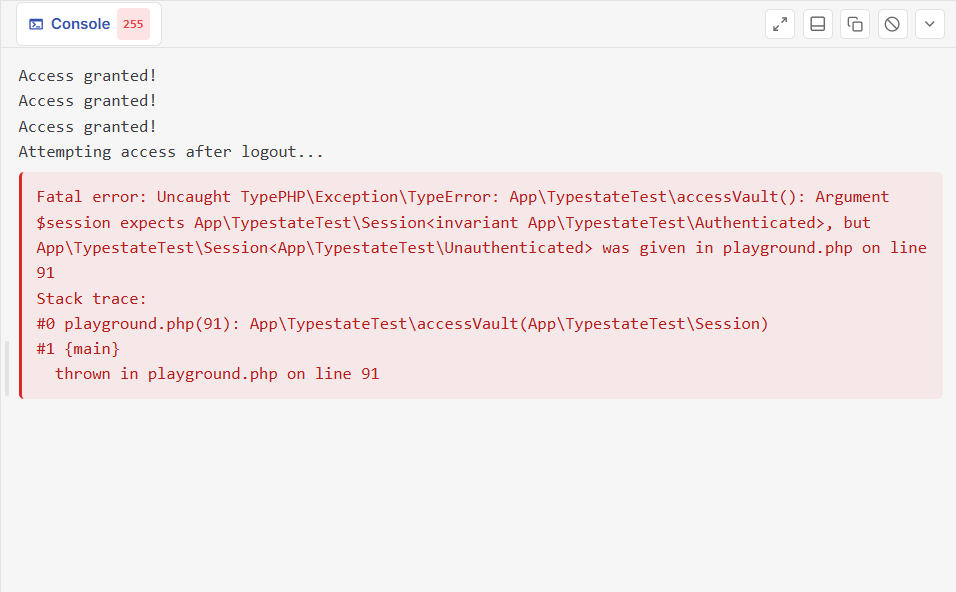
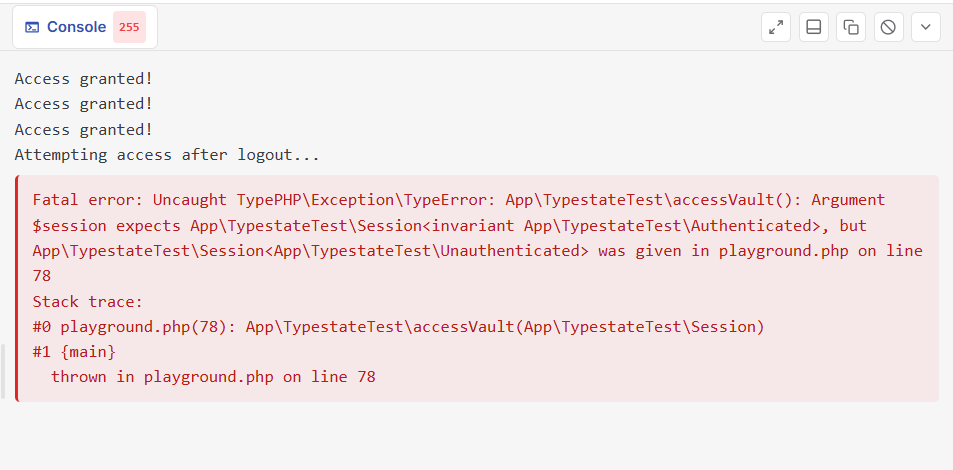
Update blog post on in-place typestates: refine content and replace images

diff --git a/docs/blog/making-legal-states-impossible-in-place-typestates-in-pure-php.md b/docs/blog/making-legal-states-impossible-in-place-typestates-in-pure-php.md
@@ -47,7 +47,7 @@ These bugs exist because of a fundamental architectural blind spot we have polit
 
 A closed `File` object will still cheerfully offer you a `read()` method. A `QueryBuilder` with zero fitlers will happily execute `delete()`. An idle database conection will smile and pretend it can `commit()`. The type system just sits there, sips its coffee, shrugs, and says: *"Sure, looks valid to me!"*
 
-For nearly forty years, computer scientists have chased a holy grail designed to end this madness: **Typestate-Oriented Programming**, the radical, mind-bending proposition that an object's type should actually reflect its current state.
+For nearly forty years, computer scientists have pursued a holy grail designed to end this madness: **Typestate-Oriented Programming**, the radical, mind-bending proposition that an object's type should actually reflect its current state.
 
 Mainstream languages looked at this idea, nodded thoughtfully in academic conferences, and then did everything in their power to avoid implementing it properly. C# freezes the type in carbonite. Rust destroys the value and runs away with it. Static analyzers wave their hands and pray CI catches it.
 
@@ -153,23 +153,24 @@ Static analysis is great at catching typos before you commit. It is, by design, 
 
 We built a small typeatate machine that exercises three patterns that appear constantly in real production code:
 
-1. Mutating `$this->state` inside transition methods.
+1. Using generic defaults (`@template TState of State = Unauthenticated`) so we never even have to write `@var` comments on instantiation!
 2. Passing the object through an alias (`$shared = $alice`), the classic shared-reference case that most PHP code relies on.
 3. Sending it through an untyped framework boundary (`untypedLayer(object $s)`).
 
 The same code was analyzed by **PHPStan at Level MAX** and then executed under **TypePHP's live runtime engine**.
 
-### What PHPStan Reports: 5 False Positives
+### What PHPStan Reports: 3 Errors (2 False Positives)
 
-![PHPStan reporting errors on the typestate example](/blog/making-legal-states-impossible-in-place-typestates-in-pure-php/phpstan-typestate-errors.png)
+![PHPStan reporting 3 errors on the typestate example](/blog/making-legal-states-impossible-in-place-typestates-in-pure-php/phpstan-typestate-errors.png)
 
-PHPStan surfaces a sea of red:
+PHPStan halted with **3 errors**:
 
-* **Inside `login()` and `logout()`:** PHPStan refuses to accept the assignments to `$this->state`, treating the generic property as an immutable museum artifact. Even in massive codebases like Nextcloud core (`Response.php`), developers are forced to write `/** @psalm-suppress InvalidPropertyAssignmentValue */` just to shut the linter up!
-* **The Aliasing Blindspot:** After `$shared = $alice` and `$alice->login()`, PHPStan still insists `$shared` is unauthenticated. Flow analysis tracks variable *names*, not physical memory pointers, so the shared mutation is invisible to it.
-* **The Opaque Boundary:** Once `$bob` passes through `untypedLayer(object $s)`, the static model loses the transition and blindly rejects the later vault access.
+* **Line 55 (The Aliasing Blindspot):** PHPStan reported that `$shared` was unauthenticated, because static flow analysis tracks variable *names*, not physical heap pointers. It had no idea `$alice->login()` updated the shared instance in RAM.
+* **Line 71 (The Opaque Boundary):** Because `$bob` passed through `untypedLayer(object $s)`, PHPStan lost track of the transition and falsely claimed `$bob` could not access the vault.
+* **Line 78 (The Legitimate Catch):** PHPStan correctly caught `$s1` after it logged out.
 
-None of these are bugs in PHPStan. They are the natural consequence of a tool that inspects text without ever executing it.
+Notice that out of 3 errors reported by PHPStan, **two were false positives on safe, legitimate code**, purely because static analysis cannot follow heap pointers. 
+
 
 ---
 
@@ -180,9 +181,9 @@ None of these are bugs in PHPStan. They are the natural consequence of a tool th
 Now run the exact same code below inside TypePHP's live WebAssembly engine:
 
 ::: tip Try it yourself
-1. Click **Run** below. All three accesses succeed cleanly with `Access granted!`, followed by line 92 halting with an uncaught `TypeError` because `$s1` logged out!
-2. Click **Edit**, comment out line 90 (`$s1->logout();`), and run again. All four accesses now succeed with Exit 0!
-3. [Open the exact same code in the PHPStan Playground](https://phpstan.org/r/54a4bc39-e250-4f4d-b649-d48f3af7727f) to see the 5 static false positives side by side.
+1. Click **Run** below. All three accesses succeed cleanly with `Access granted!`, followed by line 78 halting with an uncaught `TypeError` because `$s1` logged out!
+2. Click **Edit**, comment out line 76 (`$s1->logout();`), and run again. All four accesses now succeed with Exit 0!
+3. [Open the exact same code in the PHPStan Playground](https://phpstan.org/try) to see the 3 static errors side by side.
 :::
 
 <TypePHPSnippet title="Typestate Example: Static Analysis vs Runtime" default-view="source">
@@ -199,35 +200,19 @@ class Unauthenticated implements State {}
 class Authenticated implements State {}
 
 /**
- * @template TState of State
+ * @template TState of State = Unauthenticated
  */
 class Session
 {
     /**
-     * @var TState
-     */
-    public object $state;
-
-    public function __construct()
-    {
-        $this->state = new Unauthenticated();
-    }
-
-    /**
      * @phpstan-self-out self<Authenticated>
      */
-    public function login(): void
-    {
-        $this->state = new Authenticated();
-    }
+    public function login(): void {}
 
     /**
      * @phpstan-self-out self<Unauthenticated>
      */
-    public function logout(): void
-    {
-        $this->state = new Unauthenticated();
-    }
+    public function logout(): void {}
 }
 
 /**
@@ -241,25 +226,27 @@ function accessVault(Session $session): void
 }
 
 // -------------------------------------------------------------
-// 1. Direct Transition (Succeeds)
+// 1. Direct Transition (Both PHPStan & TypePHP Pass)
 // -------------------------------------------------------------
+
 $s1 = new Session();
 $s1->login();
-accessVault($s1);
+accessVault($s1); // ✓ Succeeded in both!
 
 // -------------------------------------------------------------
-// 2. The Shared-Reference Case
+// 2. The Aliasing Test (PHPStan fails on line 55, TypePHP succeeds)
 // -------------------------------------------------------------
+
 $alice = new Session();
 $shared = $alice; // Points to the EXACT same instance in RAM!
+
 $alice->login();
 
-// TypePHP knows $shared points to the same authenticated heap instance.
-// This matches the natural expectation when an object changes state.
-accessVault($shared);
+// PHPStan throws a false positive here because it tracks variable names:
+accessVault($shared); // ✓ TypePHP succeeds!
 
 // -------------------------------------------------------------
-// 3. Opaque Framework Boundary
+// 3. Opaque Framework Boundary (PHPStan fails on line 71, TypePHP succeeds)
 // -------------------------------------------------------------
 function untypedLayer(object $s): void
 {
@@ -271,24 +258,24 @@ function untypedLayer(object $s): void
 $bob = new Session();
 untypedLayer($bob);
 
-// At runtime, $bob physically logged in. TypePHP verifies its live state:
-accessVault($bob);
+// PHPStan throws a false positive here because $bob passed through `object`:
+accessVault($bob); // ✓ TypePHP succeeds!
 
 // -------------------------------------------------------------
-// 4. Runtime Gatekeeping (Catches actual unauthenticated access)
+// 4. Runtime Gatekeeping (Both PHPStan and TypePHP Catch This)
 // -------------------------------------------------------------
 $s1->logout();
 echo "Attempting access after logout...\n";
-accessVault($s1);
+accessVault($s1); //  Both agree: Throws TypeError on line 78!
 ```
 
 </TypePHPSnippet>
 
 TypePHP succeeds here for three concrete reasons:
 
-1. **Speculative Property Rollbacks:** When `$this->state = new Authenticated()` runs inside `login()`, TypePHP’s `InlineChecker::trySelfOutTransition()` speculatively tests the impending `@self-out` transition and allows the assignment without requiring ugly suppress comments.
+1. **Zero Boilerplate:** By declaring `@template TState of State = Unauthenticated`, `$s1 = new Session()` defaults cleanly to `Unauthenticated` without needing `@var` comments.
 2. **Heap Pointer Aliasing:** It keys state by `spl_object_id`. When `$alice->login()` runs, the physical instance updates, so `$shared` reflects the change immediately.
-3. **Observing the Actual Heap:** It observes what physically happened in memory, not what a static symbol graph guessed.
+3. **Observing the Actual Heap:** It observes what physically happened in memory, not what a static symbol graph guessed. Both tools agree on line 78, but only TypePHP lets lines 55 and 71 run as intended.
 
 ---
 
@@ -361,19 +348,17 @@ Notice what this eliminates:
 
 ---
 
-## Conclusion: PHP’s Accidental Advantage
+## Conclusion: Different Languages, Different Trade-Offs
 
-For over twenty years, computer science purists have treated PHP’s lack of native C-level reified generics as proof that it is a toy language for building simple websites.
+It is easy to look at PHP's lack of native C-level reified generics and assume the language is behind compiled peers like C# or Rust. But language design is always an exercise in choosing the right trade-offs for a specific domain:
 
-That missing C-level rigidity turned out to be an unexpected gift:
+* **C# and Swift** prioritized raw throughput and cache-friendly memory layouts by embedding generic metadata directly into physical object headers, making in-place type changes an intentional impossibility for safety and performance reasons.
+* **Rust** chose affine ownership to guarantee thread safety and memory management without a garbage collector, which naturally models state machines by moving and consuming values rather than mutating shared references. It is a brilliant design for systems programming.
+* **TypePHP** takes advantage of PHP's dynamic, garbage-collected object model to decouple generic metadata into an external `\WeakMap`, evolving the type tag in place while keeping the shared-reference model that PHP developers rely on every day.
 
-* **C# and Swift** welded generic metadata into the heap header and locked it in carbonite forever.
-* **Rust** chose affine ownership and forced you to destroy your data just to change its clothes.
-* **TypePHP** took advantage of PHP's dynamic userland, decoupled generic metadata into `\WeakMap`, and simply mutated it in place, preserving the shared-reference model that PHP developers already take for granted.
+The result is practical **in-place Typestate-Oriented Programming**: state machines enforced by structural type contracts without breaking reference identity, all running in 100% pure PHP.
 
-The result is actual **in-place Typestate-Oriented Programming**: state machines enforced by structural type contracts, without breaking reference identity, running in 100% pure PHP.
-
-Sometimes the language everyone calls "dumb" is the only one flexible enough to do the smart thing.
+Different languages make different compromises for their runtimes. In PHP's case, its dynamic userland turned out to be the exact architectural ingredient needed to make in-place typestates feel right at home.
 
 ***
 
